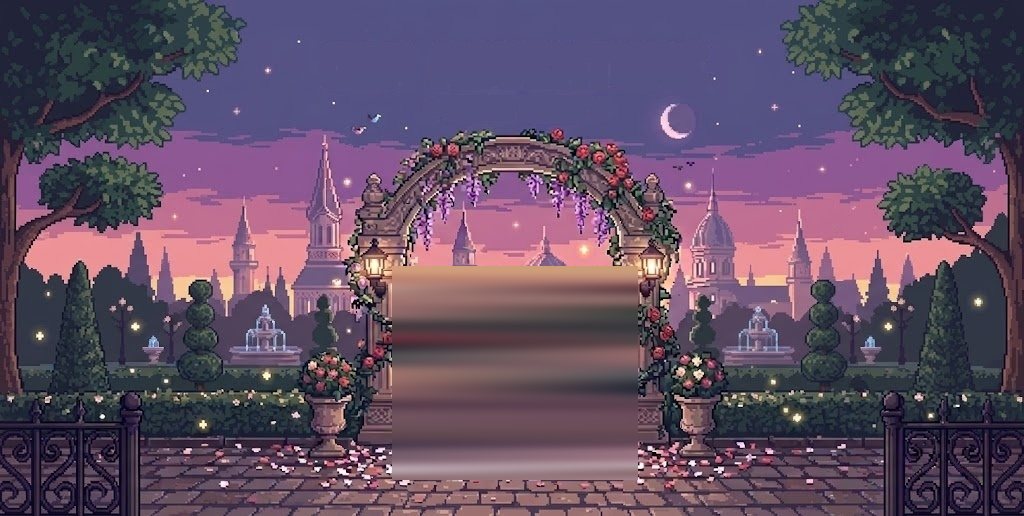
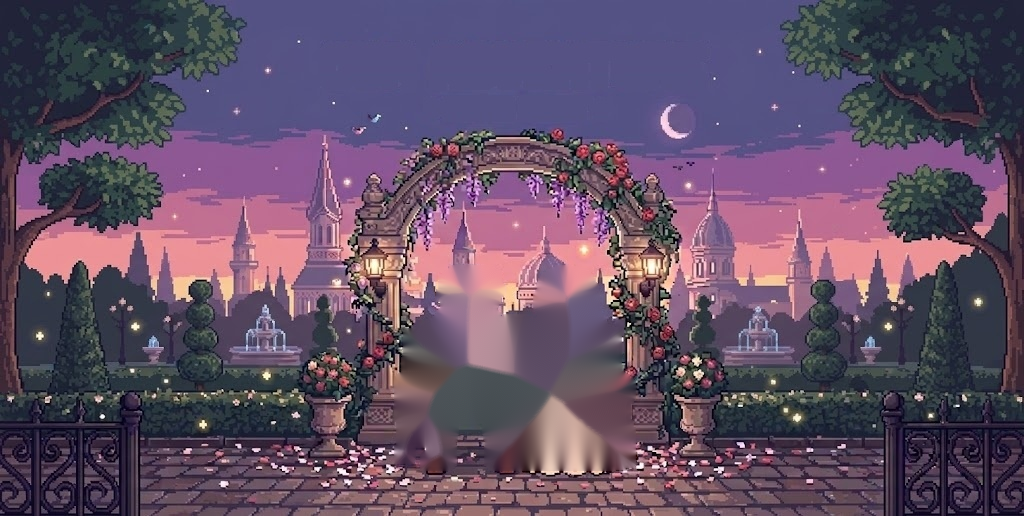
Adegan berlapis layar judul, kursor pedang, dan jukebox melayang
Adegan layar judul (bagian 4 rancangan)
- kucing berjalan dari kiri memakai lembar 6 frame, animation-timing-function
  steps(6) untuk siklus langkah dan keyframe translateX terpisah untuk
  perpindahannya
- saat kucing sampai di depan mereka (event animationend, dengan cadangan
  setTimeout kalau tab tidak aktif), kelas .reacting dipasang: lapisan
  pasangan tersenyum menyala dari opacity 0 ke 1, dan hati di atas kepala
  mereka naik dari translateY(10px) ke 0 sambil muncul
- pasangan kini memakai aset dua frame yang disediakan (biasa / tersenyum
  menunduk). Letaknya diukur dengan pencocokan pola terhadap latar: x 394,
  y 265, 242x206 -- skor kecocokan 0,92
- latar memakai berkas yang siluet pasangan lamanya di-inpaint. Sebelumnya
  kotak persegi yang dikaburkan; dengan mask siluet hasilnya menyatu dan
  sela-sela di sekitar sosok baru tetap terlihat wajar

Kursor dan sorotan
- kursor pedang dipotong dari cursor.png ke 32x32 dengan titik tunjuk di
  ujung bilah
- foto berbingkai, ikon slot, dan potret berkilau drop-shadow emas saat
  disorot

Jukebox
- dipindah ke position: fixed; top: 20px; right: 20px sesuai rancangan
- harpa berdenyut selama lagu berjalan; yang dianimasikan hanya cahayanya,
  bukan ukurannya -- tombol yang terus berubah besar membuat sasaran kliknya
  bergeser dan sulit ditekan
- panel volume dan tombol mute dipindah ke kiri papan atas; di kanan atas
  keduanya bertumpuk dengan jukebox sampai kliknya tertahan

Perbaikan lain
[…]

Changed region(s): [[0.375, 0.4961, 0.625, 0.9302]]

diff --git a/index.html b/index.html
@@ -24,6 +24,12 @@
             display: none !important;
         }
 
+        /* kursor pedang untuk seluruh halaman */
+        html, body { cursor: url('gambarpixel/anim/cursor_sword.png') 3 3, auto; }
+        .nav-btn, .au-pg, .au-choice, .au-switch, .vol-btn, .mus-btn,
+        #btn-start, #btn-mute, .slot-photo, .photobooth-img, .rh-lanjut,
+        button, a { cursor: url('gambarpixel/anim/cursor_sword.png') 3 3, pointer; }
+
         /* KETAJAMAN GAMBAR
            .stage paling lebar 1400 px sedangkan mockup aslinya 1024 px, jadi
            browser harus memperbesar 1,367x. Dengan image-rendering: pixelated
@@ -836,7 +842,7 @@
         #volume-ui {
             position: absolute;
             top: 3.4%;
-            right: 8.5%;
+            left: 8.5%;
             z-index: 50;
             pointer-events: auto;
             display: flex;
@@ -892,6 +898,86 @@
         }
 
 
+        /* ====== ADEGAN BERLAPIS DI LAYAR JUDUL ======
+           Pasangan tidak lagi menyatu di latar (latar memakai berkas yang
+           bagian pasangannya sudah dihapus), jadi hanya ada SATU salinan --
+           tidak mungkin tergambar ganda. Lapisan biasa dan lapisan tersenyum
+           ditumpuk di kotak yang sama supaya pergantiannya tidak bergeser. */
+        #hero-scene {
+            position: absolute;
+            inset: 0;
+            pointer-events: none;
+        }
+        .cp-frame {
+            position: absolute;
+            inset: 0;
+            width: 100%;
+            height: 100%;
+        }
+        .cp-smile {
+            opacity: 0;
+            transition: opacity 0.45s ease;
+        }
+        #hero-scene.reacting .cp-smile { opacity: 1; }
+
+        /* hati muncul di atas kepala mereka */
+        #ttl-heart {
+            position: absolute;
+            /* tepat di celah antara kepala mereka: ubun-ubun ada di y 270,
+               hati mengambang sedikit di atasnya */
+            left: 48.24%;
+            top: 45.9%;
+            width: 3.4%;
+            z-index: 3;
+            opacity: 0;
+            transform: translateY(10px);
+            transition: opacity 0.4s ease, transform 0.45s cubic-bezier(0.2, 1.5, 0.4, 1);
+        }
+        #ttl-heart > i {
+            display: block;
+            width: 100%;
+            padding-top: 92.5%;                 /* 222/240, mengikuti gambar hati */
+            background: url('gambarpixel/anim/heart_pop.png') 0 0 / 100% 100% no-repeat;
+        }
+        #hero-scene.reacting #ttl-heart {
+            opacity: 1;
+            transform: translateY(0);
+        }
+        #hero-scene.reacting #ttl-heart > i {
+            animation: heartFloat 2.6s ease-in-out 0.5s infinite;
+        }
+        @keyframes heartFloat {
+            0%, 100% { transform: translateY(0) scale(1); }
+            50%      { transform: translateY(-14%) scale(1.06); }
+        }
+
+        /* kucing berjalan: lembar 6 frame */
+        #ttl-cat {
+            position: absolute;
+            left: 0;
+            top: 84.5%;
+            width: 5.6%;
+            aspect-ratio: 319 / 272;
+            z-index: 4;
+            background: url('gambarpixel/anim/cat_walk.png') 0 0 / 600% 100% no-repeat;
+            animation: catStep 0.72s steps(6) infinite,
+                       catCross 8s linear forwards;
+        }
+        @keyframes catStep {
+            from { background-position-x: 0%; }
+            to   { background-position-x: 600%; }
+        }
+        @keyframes catCross {
+            from { transform: translateX(-130%); }
+            to   { transform: translateX(620%); }
+        }
+        /* sampai di depan mereka -> kucing berhenti, kembali ke frame berdiri */
+        #hero-scene.reacting #ttl-cat {
+            animation: none;
+            background-position-x: 0%;
+            transform: translateX(620%);
+        }
+
         /* Napas pasangan di layar judul.
            Lapisan ini memakai BERKAS LATAR YANG SAMA, bukan potongan
            tersendiri: gambarnya diskalakan persis seukuran panggung
@@ -905,31 +991,13 @@
            dibiarkan utuh karena titik tumpu skala ada di sana. */
         #ttl-couple {
             position: absolute;
-            /* Kotak sengaja dilebihkan: bidang landai mask harus jatuh di
-               latar kosong, bukan di badan pasangan. Kalau tepi lengan atau
-               mahkota kena bidang landai, lapisannya jadi agak tembus di
-               situ dan salinan yang tergambar di latar ikut kelihatan --
-               itu yang terbaca sebagai garis ganda.
-               Ksatria mulai di x 397, gaun berakhir di x 633, ubun-ubun di
-               y 270, kaki di y 473 (koordinat gambar 1024x516). */
-            left: 36.328%;    /* x 372 */
-            top: 44.961%;     /* y 232 */
-            width: 27.539%;   /* 282 px */
-            height: 49.419%;  /* 255 px */
+            /* letaknya diukur dengan pencocokan pola terhadap latar:
+               x 394, y 265, 242x206 pada gambar 1024x516 */
+            left: 38.477%;
+            top: 51.357%;
+            width: 23.633%;
+            height: 39.922%;
             z-index: 2;
-            pointer-events: none;
-            background-image: url('gambarpixel/anim/title_bg_hi.jpg');
-            background-size: 363.120% 202.351%;
-            background-position: 50.134% 88.889%;
-            background-repeat: no-repeat;
-            -webkit-mask-image:
-                linear-gradient(180deg, transparent 0, #000 10.98%),
-                linear-gradient(90deg, transparent 0, #000 3.55%, #000 96.45%, transparent 100%);
-            -webkit-mask-composite: source-in;
-            mask-image:
-                linear-gradient(180deg, transparent 0, #000 10.98%),
-                linear-gradient(90deg, transparent 0, #000 3.55%, #000 96.45%, transparent 100%);
-            mask-composite: intersect;
             transform-origin: 50% 100%;
             animation: coupleBreath 4.4s ease-in-out infinite;
         }
@@ -1138,7 +1206,23 @@
             filter: drop-shadow(2px 3px 0 rgba(0, 0, 0, 0.45));
             transition: transform 0.15s ease;
         }
-        .au-slot-box:hover img { transform: scale(1.08) translateY(-3px); }
+        .au-slot-box:hover img {
+            transform: scale(1.08) translateY(-3px);
+            filter: drop-shadow(0 0 8px gold);
+        }
+        /* foto berbingkai ikut berkilau saat disorot */
+        .slot-photo,
+        .photobooth-img {
+            transition: transform 0.15s ease, filter 0.15s ease;
+        }
+        .slot-photo:hover,
+        .photobooth-img:hover {
+            transform: scale(1.06);
+            filter: drop-shadow(0 0 8px gold);
+            z-index: 20;
+        }
+        .au-portrait { transition: filter 0.15s ease; }
+        .au-pbox:hover .au-portrait { filter: drop-shadow(0 0 8px gold); }
         /* ikon sumbernya jauh lebih besar dari ukuran tampil; diperkecil dengan
            penyaringan halus supaya tidak pecah bergerigi */
         .au-slot-box img { image-rendering: auto; }
@@ -1207,8 +1291,8 @@
         /* ====== PEMUTAR MUSIK (posisi tetap di layar) ====== */
         #music-bar {
             position: fixed;
-            left: 1.1vw;
-            top: 1.1vw;
+            right: 20px;
+            top: 20px;
             z-index: 120;
             display: flex;
             align-items: center;
@@ -1227,6 +1311,14 @@
             transition: transform 0.1s ease, filter 0.12s ease;
         }
         #btn-play { height: clamp(28px, 3vw, 48px); }
+        /* Harpa berdenyut selama lagu berjalan. Yang dianimasikan hanya
+           cahayanya, bukan ukurannya -- tombol yang terus berubah besar
+           membuat sasaran kliknya bergeser terus. */
+        #btn-play.main { animation: lutePulse 1.5s ease-in-out infinite; }
+        @keyframes lutePulse {
+            0%, 100% { filter: drop-shadow(0 0 0 rgba(255, 210, 130, 0))   brightness(1); }
+            50%      { filter: drop-shadow(0 0 8px rgba(255, 210, 130, 0.95)) brightness(1.15); }
+        }
         .mus-btn:hover {
             transform: scale(1.12);
             filter: brightness(1.2) drop-shadow(0 0 5px rgba(255, 210, 130, 0.8));
@@ -1340,67 +1432,7 @@
             transform: scale(1.03);
             box-shadow: 0 0 12px rgba(255,225,180,0.85);
         }
-</style>
-</head>
-<body>
 
-    <!-- WADAH 1: TITLE SCREEN -->
-    <div id="screen-title" class="active full-screen-container" style="background: #111; display: flex; justify-content: center; align-items: center;">
-        <div class="stage" style="background-image: url('gambarpixel/anim/title_bg_clean_hi.jpg');">
-
-            <!-- Area klik START (ditaruh lebih dulu supaya bisa menyorot teks di bawahnya) -->
-            <div id="btn-start" style="position: absolute; top: 14.5%; left: 36%; width: 28%; height: 13%; cursor: pointer; z-index: 10;"></div>
-
-            <!-- Judul & PRESS START dipisah dari background supaya bisa bergerak -->
-            <img id="ttl-press" src="gambarpixel/anim/press_hi.png" alt="Press Start"
-                 style="position: absolute; left: 41.309%; top: 18.217%; width: 18.164%; height: 5.62%; z-index: 5;">
-            <img id="ttl-adventure" src="gambarpixel/anim/title_hi.png" alt="Our Adventure"
-                 style="position: absolute; left: 31.055%; top: 7.752%; width: 37.988%; height: 9.69%; z-index: 5;">
-
-            <!-- pasangan: potongan latar yang sama, dipisah supaya bisa bernapas -->
-            <div id="ttl-couple"></div>
-
-            <!-- kelopak bunga berjatuhan (2 lapis, beda kecepatan) -->
-            <div class="petal-layer petal-far" style="z-index: 3;"><i></i></div>
-            <div class="petal-layer petal-near" style="z-index: 4;"><i></i></div>
-        </div>
-    </div>
-
-    <!-- WADAH 2: LOGIN MODAL -->
-    <div id="screen-login" class="hidden full-screen-container" style="background: #111; display: flex; justify-content: center; align-items: center;">
-        <div class="stage" style="background-image: url('gambarpixel/anim/pw_bg_hi.jpg');">
-
-            <!-- Penjaga gerbang: sprite sheet 2 frame (idle / menunduk saat mengetik) -->
-            <div class="guard guard-idle" id="guard-left"
-                 style="left: 17.349%; top: 29.210%; width: 13.272%; height: 48.128%;"></div>
-            <div class="guard guard-idle" id="guard-right"
-                 style="left: 71.158%; top: 29.210%; width: 13.272%; height: 48.128%;"></div>
-
-            <!-- Invisible input field positioned exactly over the baked-in stars -->
-        <input type="password" id="password-input" class="login-input" maxlength="10" style="position: absolute; top: 59.5%; left: 42.09%; width: 15.92%; height: 5.81%; background: #4e3132; border: none; border-radius: 4px; color: #f7e0b0; text-align: center; font-size: clamp(0.55rem, 1.35vw, 1rem); outline: none; caret-color: #f7e0b0; z-index: 10; letter-spacing: 0.28em; text-shadow: 2px 2px 0 rgba(0,0,0,0.55); box-shadow: inset 0 2px 4px rgba(0,0,0,0.45);">
-
-        <!-- Invisible click target for SUBMIT -->
-        <div id="btn-login" class="gate-btn" style="position: absolute; top: 67.1%; left: 40.9%; width: 8.54%; height: 5.81%;"></div>
-        <!-- Invisible click target for CANCEL -->
-        <div id="btn-cancel" class="gate-btn" style="position: absolute; top: 67.1%; left: 50.4%; width: 8.67%; height: 5.81%;"></div>
-
-        <p id="error-msg" class="error-message hidden" style="position: absolute; bottom: 8%; width: 100%; text-align: center; color: #ff6b6b; text-shadow: 2px 2px #000; font-size: clamp(0.7rem, 1.6vw, 1rem); z-index: 10;">KODE SALAH!</p>
-        </div>
-    </div>
-
-    <!-- WADAH 3: MAIN DASHBOARD -->
-    <div id="screen-main" class="hidden full-screen-container" style="background: #2b2b2b; display: flex; justify-content: center; align-items: center;">
-        <!-- The main container now uses the original 1024x516 mockup dashboard as its pristine background -->
-        <div id="dashboard-wrapper" style="position: relative; width: min(100vw, 1400px, calc(100vh * 1024 / 516)); aspect-ratio: 1024/516; box-shadow: 0 0 20px #000; overflow: hidden;">
-            <div id="scrolling-bg" style="position: absolute; top: 0; left: 0; width: 100%; height: 100%; background: url('gambarpixel/anim/dashboard_hi.png') top left / 100% 100% no-repeat; z-index: 0; transition: background-image 0.3s ease;"></div>
-
-            <div style="position: absolute; top: 0; left: 0; width: 100%; height: 100%; z-index: 10; pointer-events: none;">
-                <!-- Re-enable pointer events for interactive areas -->
-                <style>
-                    #main-content-area { pointer-events: auto; overflow-y: auto; scrollbar-width: none; -ms-overflow-style: none; }
-                    #main-content-area::-webkit-scrollbar { display: none; }
-                    .sidebar-interactive { pointer-events: auto; }
-            
         /* ==================================================================
            TATA LETAK LAYAR KECIL (HP) - sengaja ditaruh paling bawah supaya
            aturannya menimpa yang di atas.
@@ -1500,7 +1532,7 @@
                 left: 4px;
                 right: auto;
                 transform: none;
-                top: 4px;
+                top: 4px;   /* kanan atas dipakai panel volume saat layar pendek */
                 gap: 8px;
                 padding: 4px 8px;
             }
@@ -1512,7 +1544,74 @@
         @media (max-width: 768px) and (orientation: portrait) {
             body:not(.abaikan-putar) #rotate-hint { display: flex; }
         }
-    </style>
+</style>
+</head>
+<body>
+
+    <!-- WADAH 1: TITLE SCREEN -->
+    <div id="screen-title" class="active full-screen-container" style="background: #111; display: flex; justify-content: center; align-items: center;">
+        <div class="stage" style="background-image: url('gambarpixel/anim/title_bg_clean_hi.jpg');">
+
+            <!-- Area klik START (ditaruh lebih dulu supaya bisa menyorot teks di bawahnya) -->
+            <div id="btn-start" style="position: absolute; top: 14.5%; left: 36%; width: 28%; height: 13%; cursor: pointer; z-index: 10;"></div>
+
+            <!-- Judul & PRESS START dipisah dari background supaya bisa bergerak -->
+            <img id="ttl-press" src="gambarpixel/anim/press_hi.png" alt="Press Start"
+                 style="position: absolute; left: 41.309%; top: 18.217%; width: 18.164%; height: 5.62%; z-index: 5;">
+            <img id="ttl-adventure" src="gambarpixel/anim/title_hi.png" alt="Our Adventure"
+                 style="position: absolute; left: 31.055%; top: 7.752%; width: 37.988%; height: 9.69%; z-index: 5;">
+
+            <!-- Adegan berlapis: kucing lewat -> pasangan menoleh & tersenyum -> hati muncul -->
+            <div id="hero-scene">
+                <div id="ttl-couple">
+                    <img class="cp-frame" src="gambarpixel/anim/couple_calm.png" alt="Ksatria dan tuan putri">
+                    <img class="cp-frame cp-smile" src="gambarpixel/anim/couple_smile.png" alt="">
+                </div>
+                <div id="ttl-heart"><i></i></div>
+                <div id="ttl-cat"></div>
+            </div>
+
+            <!-- kelopak bunga berjatuhan (2 lapis, beda kecepatan) -->
+            <div class="petal-layer petal-far" style="z-index: 3;"><i></i></div>
+            <div class="petal-layer petal-near" style="z-index: 4;"><i></i></div>
+        </div>
+    </div>
+
+    <!-- WADAH 2: LOGIN MODAL -->
+    <div id="screen-login" class="hidden full-screen-container" style="background: #111; display: flex; justify-content: center; align-items: center;">
+        <div class="stage" style="background-image: url('gambarpixel/anim/pw_bg_hi.jpg');">
+
+            <!-- Penjaga gerbang: sprite sheet 2 frame (idle / menunduk saat mengetik) -->
+            <div class="guard guard-idle" id="guard-left"
+                 style="left: 17.349%; top: 29.210%; width: 13.272%; height: 48.128%;"></div>
+            <div class="guard guard-idle" id="guard-right"
+                 style="left: 71.158%; top: 29.210%; width: 13.272%; height: 48.128%;"></div>
+
+            <!-- Invisible input field positioned exactly over the baked-in stars -->
+        <input type="password" id="password-input" class="login-input" maxlength="10" style="position: absolute; top: 59.5%; left: 42.09%; width: 15.92%; height: 5.81%; background: #4e3132; border: none; border-radius: 4px; color: #f7e0b0; text-align: center; font-size: clamp(0.55rem, 1.35vw, 1rem); outline: none; caret-color: #f7e0b0; z-index: 10; letter-spacing: 0.28em; text-shadow: 2px 2px 0 rgba(0,0,0,0.55); box-shadow: inset 0 2px 4px rgba(0,0,0,0.45);">
+
+        <!-- Invisible click target for SUBMIT -->
+        <div id="btn-login" class="gate-btn" style="position: absolute; top: 67.1%; left: 40.9%; width: 8.54%; height: 5.81%;"></div>
+        <!-- Invisible click target for CANCEL -->
+        <div id="btn-cancel" class="gate-btn" style="position: absolute; top: 67.1%; left: 50.4%; width: 8.67%; height: 5.81%;"></div>
+
+        <p id="error-msg" class="error-message hidden" style="position: absolute; bottom: 8%; width: 100%; text-align: center; color: #ff6b6b; text-shadow: 2px 2px #000; font-size: clamp(0.7rem, 1.6vw, 1rem); z-index: 10;">KODE SALAH!</p>
+        </div>
+    </div>
+
+    <!-- WADAH 3: MAIN DASHBOARD -->
+    <div id="screen-main" class="hidden full-screen-container" style="background: #2b2b2b; display: flex; justify-content: center; align-items: center;">
+        <!-- The main container now uses the original 1024x516 mockup dashboard as its pristine background -->
+        <div id="dashboard-wrapper" style="position: relative; width: min(100vw, 1400px, calc(100vh * 1024 / 516)); aspect-ratio: 1024/516; box-shadow: 0 0 20px #000; overflow: hidden;">
+            <div id="scrolling-bg" style="position: absolute; top: 0; left: 0; width: 100%; height: 100%; background: url('gambarpixel/anim/dashboard_hi.png') top left / 100% 100% no-repeat; z-index: 0; transition: background-image 0.3s ease;"></div>
+
+            <div style="position: absolute; top: 0; left: 0; width: 100%; height: 100%; z-index: 10; pointer-events: none;">
+                <!-- Re-enable pointer events for interactive areas -->
+                <style>
+                    #main-content-area { pointer-events: auto; overflow-y: auto; scrollbar-width: none; -ms-overflow-style: none; }
+                    #main-content-area::-webkit-scrollbar { display: none; }
+                    .sidebar-interactive { pointer-events: auto; }
+            
     </style>
 
 
@@ -1525,7 +1624,7 @@
             </div>
 
             <!-- TOMBOL MUTE AUDIO -->
-            <img id="btn-mute" src="gambarpixel/sound icon.png" style="pointer-events: auto; position: absolute; top: 4%; right: 2%; width: 5%; height: auto; z-index: 50; cursor: pointer; filter: drop-shadow(2px 2px 5px #000);">
+            <img id="btn-mute" src="gambarpixel/sound icon.png" style="pointer-events: auto; position: absolute; top: 4%; left: 2%; width: 5%; height: auto; z-index: 50; cursor: pointer; filter: drop-shadow(2px 2px 5px #000);">
 
             <!-- LEFT SIDEBAR (Invisible Interactive Overlays) -->
             <div class="sidebar-interactive" style="position: absolute; left: 0; top: 0; width: 22%; height: 100%; z-index: 10;">
@@ -2149,6 +2248,19 @@
                 bgmAudio.play().catch(err => console.log('[BGM] autoplay ditolak browser:', err));
             }
 
+            // ---- adegan layar judul: kucing tiba -> pasangan tersenyum, hati muncul ----
+            const heroScene = document.getElementById('hero-scene');
+            const ttlCat = document.getElementById('ttl-cat');
+            if (heroScene && ttlCat) {
+                const bereaksi = () => heroScene.classList.add('reacting');
+                // dipicu saat langkah kucing selesai; ada cadangan waktu kalau
+                // animasi tidak pernah mengirim event (mis. tab tidak aktif)
+                ttlCat.addEventListener('animationend', e => {
+                    if (e.animationName === 'catCross') bereaksi();
+                });
+                setTimeout(bereaksi, 9000);
+            }
+
             // ajakan memutar layar boleh diabaikan
             const rhLanjut = document.querySelector('#rotate-hint .rh-lanjut');
             if (rhLanjut) rhLanjut.addEventListener('click', () => document.body.classList.add('abaikan-putar'));
@@ -2160,6 +2272,7 @@
             function renderMusik() {
                 musTitle.textContent = playlist[trekIndex].judul;
                 btnPlay.classList.toggle('jeda', bgmAudio.paused);
+                btnPlay.classList.toggle('main', !bgmAudio.paused);
                 btnPlay.title = (bgmAudio.paused ? 'Putar' : 'Jeda') + ' \u2014 ' + playlist[trekIndex].judul;
                 btnMute.style.opacity = (bgmAudio.paused || volume === 0) ? '0.45' : '1';
             }
